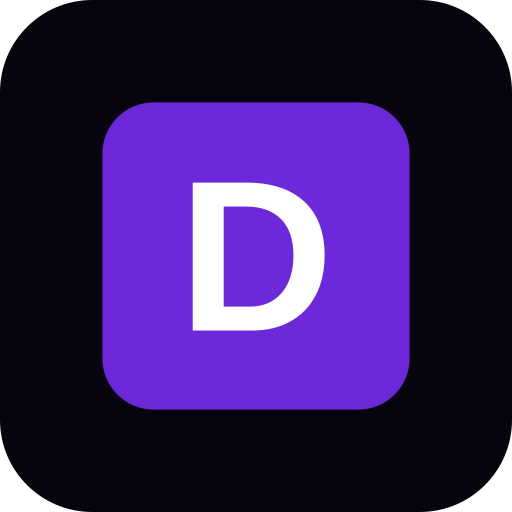
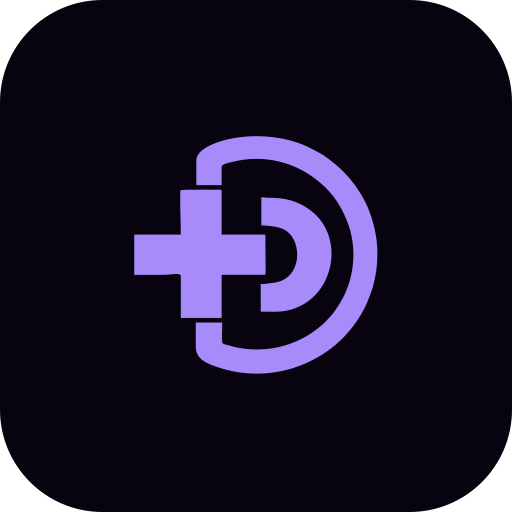
feat: endereco novo, a marca no sistema inteiro e o credito no rodape
ENDERECO. R. Sabia, 702, Sala 03, Universitario, Lajeado/RS, 95914-052. O
campo `complemento` e novo no tipo, e o `enderecoEmUmaLinha` so o inclui
quando existe - para nao sobrar uma virgula solta em endereco sem sala. O site
oficial ainda mostra o antigo; este e o certo.

A MARCA EM TODA SUPERFICIE. Cinco lugares que ainda desenhavam um "D" em texto
dentro de um quadradinho: topo do site, rodape do site, tela de login, lateral
do painel e portal do cliente. Todos passam a usar o SVG oficial.

No portal do cliente entra so o SIMBOLO, pequeno, ao lado do nome da FRANQUIA
dona da ordem - quem abre aquele link e cliente dela, nao da plataforma. Por
o logo do sistema grande ali seria vender a marca errada para a pessoa errada.

FAVICON E ICONES DO PWA. O gerador desenhava um "D" em Arial dentro de um
quadrado roxo; era marcador de lugar e ficou no ar tempo demais. Agora le o
simbolo oficial do mesmo arquivo que o site usa, entao ha um lugar so para
mudar quando a marca mudar. Saem tambem apple-touch-icon e favicon em 32 e 64.
Margem menor no favicon: em 32px, respiro demais deixa o desenho pequeno
demais para se reconhecer na aba. Conferido nos quatro tamanhos.

CREDITO. "Desenvolvido por Grupo Conexao", com o site clicavel, num componente
so - usado no site, no login, no painel, nos dois apps de campo e no portal.
Sete lugares. Escrito a mao, seria uma frase que envelhece em seis deles no dia
em que algo mudar.
[…]

diff --git a/src/lib/empresa.ts b/src/lib/empresa.ts
@@ -64,6 +64,7 @@ type DadosEmpresa = {
   endereco: {
     logradouro: string
     numero: string
+    complemento: string
     bairro: string
     cidade: string
     uf: string
@@ -112,14 +113,20 @@ export const EMPRESA: DadosEmpresa = {
   /** PENDENTE: informar. Ex.: 'Seg a Sex · 8h às 18h'. */
   horarioAtendimento: '',
 
-  // --- Endereço (confirmado no site oficial) ------------------------------
+  // --- Endereço -----------------------------------------------------------
+  /**
+   * Atualizado pelo Lucas em agosto de 2026. O site oficial ainda mostra o
+   * endereço antigo (Av. Alberto Pasqualini, 2073, São Cristóvão) — este aqui
+   * é o certo, e vale para o site, o rodapé e a tela de login.
+   */
   endereco: {
-    logradouro: 'Av. Alberto Pasqualini',
-    numero: '2073',
-    bairro: 'São Cristóvão',
+    logradouro: 'R. Sabiá',
+    numero: '702',
+    complemento: 'Sala 03',
+    bairro: 'Universitário',
     cidade: 'Lajeado',
     uf: 'RS',
-    cep: '95914-040',
+    cep: '95914-052',
   },
 
   // --- Redes --------------------------------------------------------------
@@ -262,8 +269,21 @@ export const EMPRESA: DadosEmpresa = {
 /** Endereço numa linha, do jeito que se lê em voz alta. */
 export function enderecoEmUmaLinha(): string {
   const e = EMPRESA.endereco
-  return `${e.logradouro}, ${e.numero} · ${e.bairro} · ${e.cidade}/${e.uf} · CEP ${e.cep}`
+  const numero = e.complemento ? `${e.numero}, ${e.complemento}` : e.numero
+  return `${e.logradouro}, ${numero} · ${e.bairro} · ${e.cidade}/${e.uf} · CEP ${e.cep}`
 }
+
+/**
+ * Quem construiu o sistema, para o rodapé.
+ *
+ * Vive aqui junto do resto porque aparece no site E em toda tela do painel e
+ * dos aplicativos — e crédito escrito à mão em oito lugares é crédito que fica
+ * desatualizado em sete.
+ */
+export const DESENVOLVEDOR = {
+  nome: 'Grupo Conexão',
+  site: 'https://conexaomkt.com.br',
+} as const
 
 /** Link do WhatsApp, com mensagem já digitada para a pessoa só apertar enviar. */
 export function linkWhatsapp(mensagem?: string): string {

diff --git a/src/app/os/[token]/page.tsx b/src/app/os/[token]/page.tsx
@@ -6,6 +6,8 @@ import { carregarOrdemPublica } from '@/server/acoes/portal'
 import { ROTULO_DOCUMENTO, ROTULO_ETAPA } from '@/server/ordem/maquina-estados'
 import { Aprovacao } from './aprovacao'
 import estilo from './portal.module.css'
+import { Credito } from '@/app/credito'
+import { Simbolo } from '@/app/marca'
 
 export const metadata: Metadata = {
   title: 'Acompanhe seu equipamento',
@@ -26,7 +28,10 @@ export default async function Portal({ params }: { params: Promise<{ token: stri
   return (
     <main className={estilo.palco}>
       <header className={estilo.topo}>
-        <span className={estilo.marcaD}>D</span>
+        {/* O nome que aparece aqui é o da FRANQUIA dona da ordem, não o da
+            plataforma: quem abre este link é cliente dela. O símbolo do
+            sistema fica pequeno, ao lado, sem disputar. */}
+        <Simbolo larguraPx={26} />
         <span className={estilo.marcaTxt}>{ordem.tenant.nome}</span>
       </header>
 
@@ -147,6 +152,9 @@ export default async function Portal({ params }: { params: Promise<{ token: stri
           <p>
             Dúvida sobre esta ordem? Chame a {ordem.tenant.nome}
             {ordem.tenant.telefone ? ` no ${formatarTelefone(ordem.tenant.telefone)}` : ''}.
+          </p>
+          <p>
+            <Credito />
           </p>
         </footer>
       </div>

diff --git a/src/app/painel/layout.tsx b/src/app/painel/layout.tsx
@@ -4,6 +4,8 @@ import { Papel } from '@/generated/prisma/enums'
 import { podeVer } from '@/server/auth/guarda'
 import { encerrarSessao, lerSessao } from '@/server/auth/sessao'
 import estilo from './painel.module.css'
+import { Credito } from '../credito'
+import { Marca } from '../marca'
 
 /**
  * Moldura do painel.
@@ -40,10 +42,7 @@ export default async function LayoutPainel({ children }: { children: React.React
     <div className={estilo.app}>
       <aside className={estilo.lateral}>
         <div className={estilo.latMarca}>
-          <span className={estilo.latD}>D</span>
-          <span className={estilo.latTxt}>
-            TECH<b>MED</b>
-          </span>
+          <Marca larguraPx={150} />
         </div>
 
         <p className={estilo.latGrupo}>A esteira</p>
@@ -116,7 +115,12 @@ export default async function LayoutPainel({ children }: { children: React.React
           </span>
           <span className={estilo.data}>{hoje()}</span>
         </header>
-        <div className={estilo.rolagem}>{children}</div>
+        <div className={estilo.rolagem}>
+          {children}
+          <footer className={estilo.rodape}>
+            <Credito />
+          </footer>
+        </div>
       </div>
     </div>
   )

diff --git a/src/app/credito.tsx b/src/app/credito.tsx
@@ -1,0 +1,25 @@
+import { DESENVOLVEDOR } from '@/lib/empresa'
+
+/**
+ * O crédito de quem construiu, para o rodapé.
+ *
+ * Um componente, e não a frase escrita à mão em cada tela. Ele aparece no site,
+ * na tela de login, no painel, nos dois aplicativos de campo e no portal do
+ * cliente — sete lugares. Escrito à mão, seria uma frase que envelhece em seis
+ * deles no dia em que alguma coisa mudar.
+ *
+ * O link abre em aba nova porque leva para fora do sistema: quem está no meio
+ * de uma ordem de serviço não pode perder a tela por um clique de curiosidade.
+ * Com `rel="noopener"`, que impede a página de destino de mexer nesta pela
+ * referência `window.opener`.
+ */
+export function Credito({ className }: { className?: string }) {
+  return (
+    <span className={className}>
+      Desenvolvido por{' '}
+      <a href={DESENVOLVEDOR.site} target="_blank" rel="noopener noreferrer">
+        {DESENVOLVEDOR.nome}
+      </a>
+    </span>
+  )
+}

diff --git a/src/app/entrar/page.tsx b/src/app/entrar/page.tsx
@@ -4,6 +4,8 @@ import { lerSessao } from '@/server/auth/sessao'
 import { Formulario } from './formulario'
 import estilo from './entrar.module.css'
 import { EMPRESA } from '@/lib/empresa'
+import { Credito } from '../credito'
+import { Marca } from '../marca'
 
 export const metadata: Metadata = {
   title: 'Entrar',
@@ -28,10 +30,7 @@ export default async function Entrar({
 
       <div className={estilo.cartao}>
         <div className={estilo.marca}>
-          <span className={estilo.marcaD}>D</span>
-          <span className={estilo.marcaTxt}>
-            TECH<b>MED</b>
-          </span>
+          <Marca larguraPx={180} />
         </div>
 
         <h1 className={estilo.titulo}>Entrar no sistema</h1>
@@ -42,6 +41,8 @@ export default async function Entrar({
 
       <p className={estilo.rodape}>
         {EMPRESA.razaoSocial} · {EMPRESA.endereco.cidade}/{EMPRESA.endereco.uf}
+        <br />
+        <Credito />
       </p>
     </main>
   )

diff --git a/src/app/app/layout.tsx b/src/app/app/layout.tsx
@@ -2,6 +2,7 @@ import type { Metadata, Viewport } from 'next'
 import { redirect } from 'next/navigation'
 import { lerSessao } from '@/server/auth/sessao'
 import estilo from './app.module.css'
+import { Credito } from '../credito'
 
 export const metadata: Metadata = {
   title: 'DTECH MED · Campo',
@@ -30,5 +31,14 @@ export const viewport: Viewport = {
 export default async function LayoutApp({ children }: { children: React.ReactNode }) {
   const sessao = await lerSessao()
   if (!sessao) redirect('/entrar?destino=/app')
-  return <div className={estilo.aparelho}>{children}</div>
+  return (
+    <div className={estilo.aparelho}>
+      {children}
+      {/* Discreto e no fim da rolagem: quem está na rua com uma mão só não
+          pode ter o polegar disputando espaço com um crédito. */}
+      <footer className={estilo.rodape}>
+        <Credito />
+      </footer>
+    </div>
+  )
 }

diff --git a/src/app/page.tsx b/src/app/page.tsx
@@ -2,6 +2,7 @@ import { existsSync } from 'node:fs'
 import path from 'node:path'
 import Link from 'next/link'
 import { EMPRESA, enderecoEmUmaLinha, instagramUsuario, linkWhatsapp } from '@/lib/empresa'
+import { Credito } from './credito'
 import { FormularioRetirada } from './formulario-retirada'
 import { FundoOsciloscopio } from './fundo-osciloscopio'
 import { FundoVideo } from './fundo-video'
@@ -548,6 +549,7 @@ export default function Home() {
           <span>
             © {anoAtual} {EMPRESA.razaoSocial}
           </span>
+          <Credito className={estilo.credito} />
           <Link href="/entrar">Acesso ao sistema</Link>
         </div>
       </footer>

diff --git a/src/app/app/app.module.css b/src/app/app/app.module.css
@@ -196,3 +196,18 @@
   border: 1px dashed var(--borda-viva); border-radius: var(--r-lg);
   color: var(--txt-2); font-size: var(--t-sm); line-height: 1.6;
 }
+
+/* --- Rodapé dos apps de campo ---------------------------------------------
+   Espaço extra embaixo por causa da barra de navegação, que é fixa: sem ele o
+   crédito nasceria escondido atrás dela. */
+.rodape {
+  padding: var(--s5, 24px) var(--s4, 16px) calc(var(--s9, 96px) + env(safe-area-inset-bottom));
+  text-align: center;
+  font-size: var(--t-xs, .6875rem);
+  color: var(--ink-3);
+}
+.rodape a {
+  color: var(--ink-2);
+  text-decoration: underline;
+  text-underline-offset: 3px;
+}

diff --git a/src/app/painel/painel.module.css b/src/app/painel/painel.module.css
@@ -880,3 +880,20 @@
 @media (max-width: 1000px) {
   .duasColunas { grid-template-columns: 1fr; }
 }
+
+/* --- Rodapé do painel ------------------------------------------------------
+   No fim da rolagem do conteúdo, não fixo: numa tela de trabalho, cada pixel
+   preso no rodapé é um pixel a menos de tabela. */
+.rodape {
+  margin-top: var(--s8, 64px);
+  padding: var(--s5, 24px) 0 var(--s6, 32px);
+  border-top: 1px solid var(--linha);
+  font-size: var(--t-xs, .6875rem);
+  color: var(--ink-3);
+}
+.rodape a {
+  color: var(--ink-2);
+  text-decoration: underline;
+  text-underline-offset: 3px;
+}
+.rodape a:hover { color: var(--vio-claro); }

diff --git a/src/app/site.module.css b/src/app/site.module.css
@@ -1414,3 +1414,18 @@
 
 /* Campo do site oficial, usado pelo formulário para separar a origem. */
 .formSite { grid-column: 1 / -1; }
+
+/* --- Crédito de quem construiu -------------------------------------------
+   Discreto, mas com o link legível. Sublinhado com folga, para o traço não
+   cortar as descendentes das letras. */
+.credito {
+  color: var(--txt-3);
+}
+.credito a {
+  color: var(--txt-2);
+  text-decoration: underline;
+  text-underline-offset: 3px;
+  text-decoration-thickness: 1px;
+  transition: color 180ms var(--ease);
+}
+.credito a:hover { color: var(--vio-claro); }

diff --git a/src/app/os/[token]/portal.module.css b/src/app/os/[token]/portal.module.css
@@ -166,3 +166,10 @@
   border-top: 1px solid var(--borda);
   font-size: var(--t-sm); color: var(--txt-3); line-height: 1.6;
 }
+
+/* O crédito herda o rodapé do portal; só o link precisa de tratamento. */
+.rodape a {
+  color: var(--ink-2);
+  text-decoration: underline;
+  text-underline-offset: 3px;
+}
